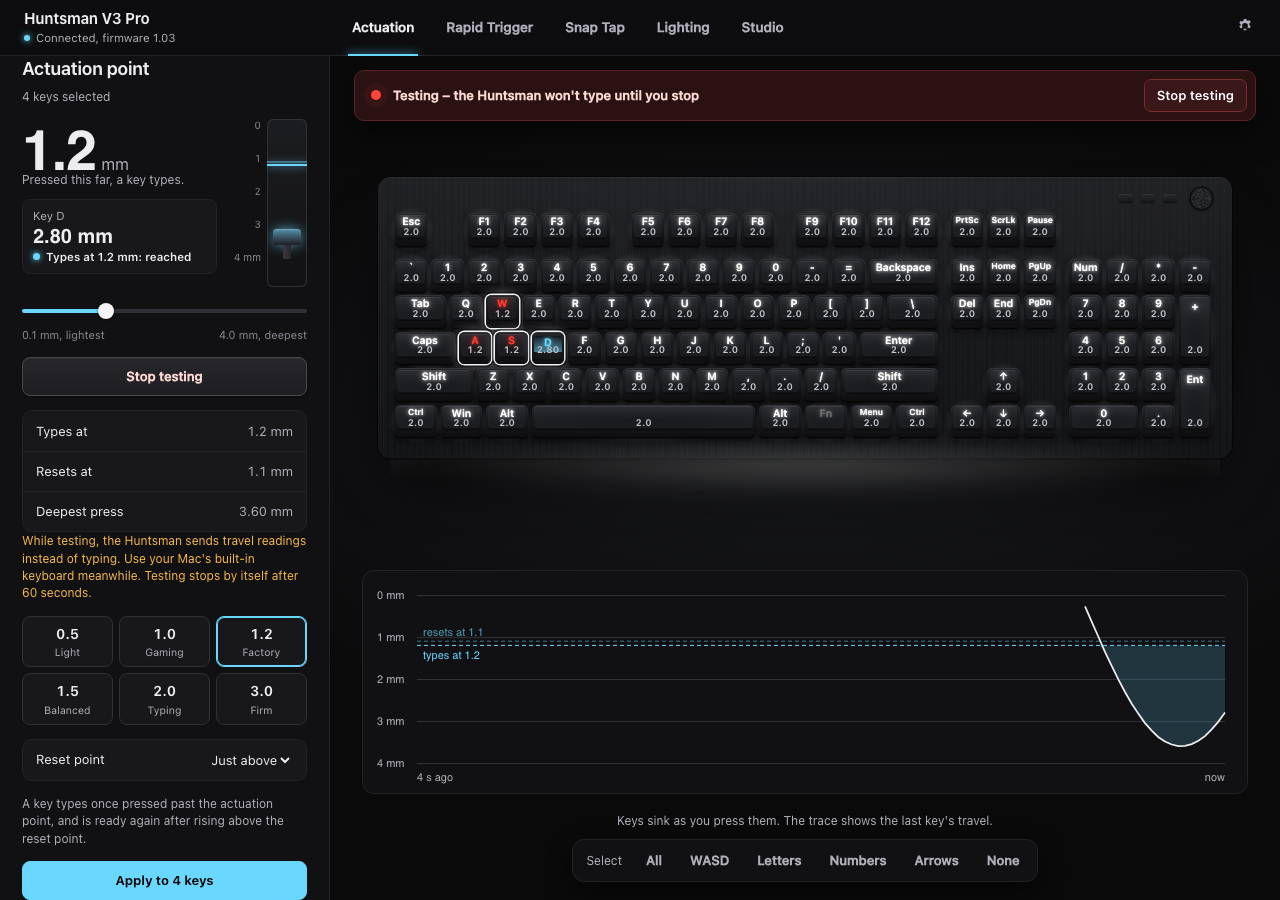
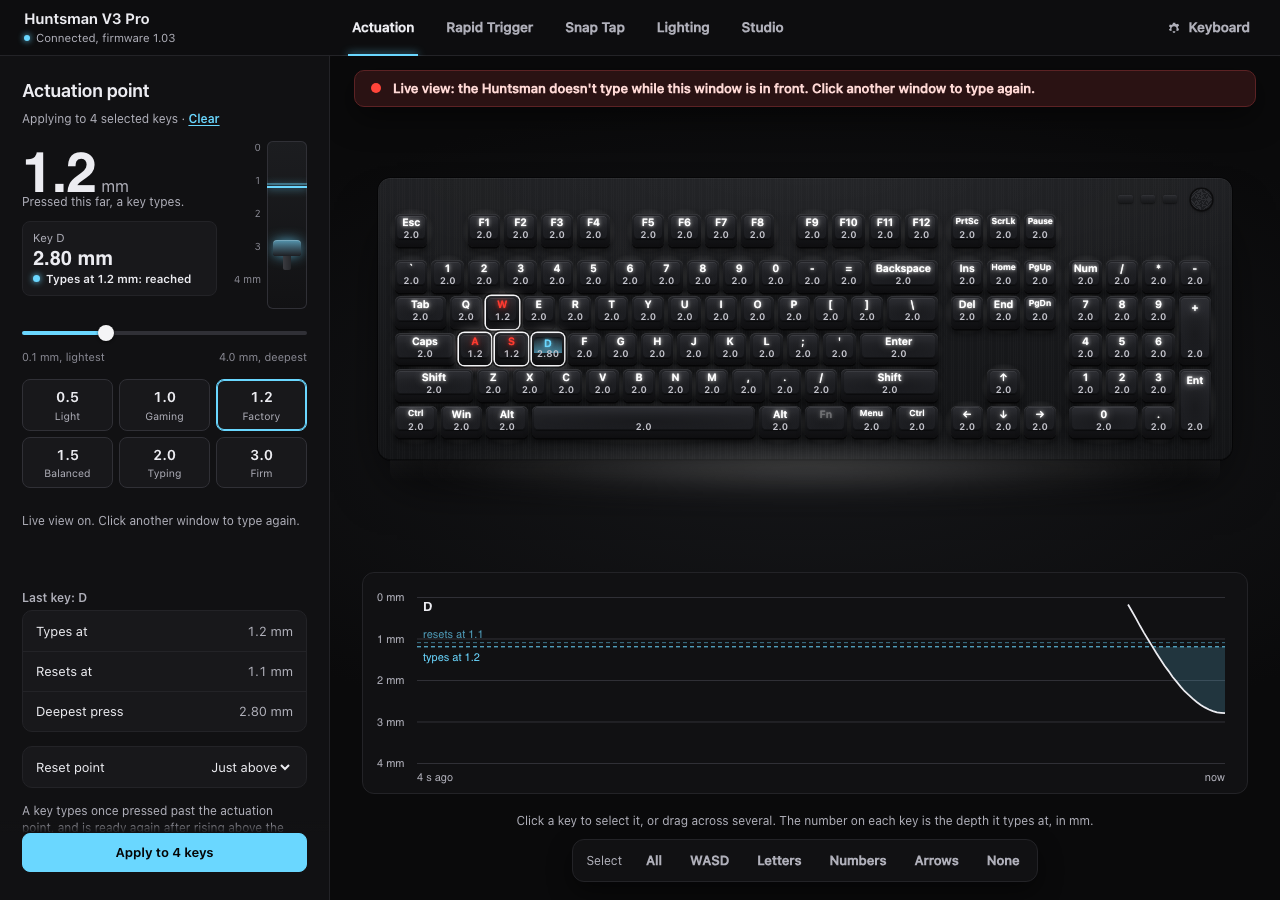
docs: 0.4.1 release notes, README and fresh key-tester media
The changelog, README, landing page and handoff describe the live view as shipped, and
the Actuation screenshot and key-tester gif showed the removed Test button and banner.
tools/make_media.py makes both from demo mode so they can be redone.

Claude-Session: https://claude.ai/code/session_01A4ixEHWyTsNqqdqhbaYNum

diff --git a/docs/index.html b/docs/index.html
@@ -67,7 +67,7 @@
     {"@type": "Question", "name": "I have one of the experimental models. How can I help?",
      "acceptedAnswer": {"@type": "Answer", "text": "Turn on Experimental support, run the LED check, and report what worked and what didn't. The steps are in CONTRIBUTING.md."}},
     {"@type": "Question", "name": "Why is there no key tester on my model?",
-     "acceptedAnswer": {"@type": "Answer", "text": "The key tester switches the keyboard into a mode where it stops typing. It's only offered on a model that has been tested, so an untested keyboard can't be left unable to type. The V2 and V2 TKL also have no analog keys to test."}}
+     "acceptedAnswer": {"@type": "Answer", "text": "While the key tester runs, the keyboard doesn't type. It's only offered on a model that has been tested, so an untested keyboard can't be left unable to type. The V2 and V2 TKL also have no analog keys to test."}}
   ]
 }
 </script>
@@ -351,7 +351,7 @@ footer p{margin:0 0 12px}
 
       <div class="bento">
         <article class="card span-3">
-          <div class="shot"><img src="screenshot-actuation.png" width="1280" height="900" loading="lazy" alt="Huntsman for Mac in demo mode, Actuation tab: four keys set to 1.2 mm while the key tester shows the D key pressed to 2.8 mm"></div>
+          <div class="shot"><img src="screenshot-actuation.png" width="1280" height="900" loading="lazy" alt="Huntsman for Mac in demo mode, Actuation tab in live view: W, A, S and D set to 1.2 mm while the D key is pressed to 2.80 mm and the trace draws its travel"></div>
           <h3>Actuation, to a tenth of a millimetre</h3>
           <p>Every key, anywhere from <strong>0.1 mm</strong> (a feather) to <strong>4.0 mm</strong> (the whole way down), with its reset point. It's stored on the keyboard, so it goes with the keyboard to other computers.</p>
           <span class="tag on">Saved on the keyboard</span>
@@ -361,11 +361,11 @@ footer p{margin:0 0 12px}
           <div class="shot">
             <picture>
               <source media="(prefers-reduced-motion: reduce)" srcset="screenshot-actuation.png">
-              <img src="demo-key-tester.gif" width="960" height="675" loading="lazy" alt="Demo mode, Actuation tab: the key tester showing key travel on the meter and in the readings">
+              <img src="demo-key-tester.gif" width="960" height="675" loading="lazy" alt="Demo mode, Actuation tab in live view: W, A, S and D sink in turn; the board, the meter and the readings follow each key, and the trace names it and draws its travel">
             </picture>
           </div>
           <h3>Key tester: watch each key's travel live</h3>
-          <p>Open Actuation and press a key on the Huntsman: it sinks on the board, a meter follows it, a trace draws its travel, and the panel shows where it typed, where it reset and how deep you pressed. Offered on the Huntsman V3 Pro (1532:02A6), the one model tested with this app.</p>
+          <p>Open Actuation and press a key on the Huntsman. No button to click: it sinks on the board, a meter follows it, a trace names it and draws its travel, and the panel shows where it typed, where it reset and how deep you pressed. While the window is in front on Actuation the Huntsman doesn't type; click another window and it types again. Offered on the Huntsman V3 Pro (1532:02A6), the one model tested with this app.</p>
           <p class="note">Recorded in demo mode (simulated key presses, not a hardware recording).</p>
         </article>
 
@@ -519,7 +519,7 @@ cd huntsman-for-mac</code></pre></div>
       </ol>
       <ul class="win-notes">
         <li>Every model is experimental on Windows, the V3 Pro too: nothing is changed until Experimental support is on.</li>
-        <li>No key tester on Windows.</li>
+        <li>No key tester on Windows: while it runs the keyboard doesn't type, so it stays off on an untested platform.</li>
         <li>Windows Dynamic Lighting can take over the lights; the window says how to turn it off for the keyboard.</li>
         <li>The window needs the Microsoft Edge WebView2 Runtime: built into Windows 11, may need installing on Windows 10.</li>
         <li>The lighting service lives in the tray and starts at sign-in (per-user, no admin rights).</li>
@@ -566,7 +566,7 @@ cd huntsman-for-mac</code></pre></div>
         <div class="card"><h3>Checked replies</h3><p>Every command checks that the keyboard's reply matches the request and passes its checksum. Actuation writes are also read back key by key.</p></div>
         <div class="card"><h3>Your settings saved</h3><p>On first launch the app copies every key's settings to a snapshot; <code>restore-snapshot</code> puts them back.</p></div>
         <div class="card"><h3>Factory reset</h3><p><em>Restore factory depth</em> puts every key back to 1.2 mm and turns off Rapid Trigger and Snap Tap.</p></div>
-        <div class="card"><h3>The tester lets go</h3><p>The tester only runs while Actuation is in front. The keyboard types again when you switch tab or app, after 5 minutes without a key press, when you close the window or when the app quits.</p></div>
+        <div class="card"><h3>The tester lets go</h3><p>The tester only runs while the window is in front on Actuation. The keyboard types again when you switch tab or app, minimise the window, after 5 minutes without a key press, when you close the window or when the app quits.</p></div>
       </div>
     </div>
   </section>
@@ -587,7 +587,7 @@ cd huntsman-for-mac</code></pre></div>
         <details><summary>Is it free?</summary><p>Yes. It's open source under GPL-3.0-or-later, with no account, no telemetry and no paid tier.</p></details>
         <details><summary>Which keyboards are supported?</summary><p>The Razer Huntsman V3 Pro (full size, USB ID 1532:02A6) is tested. The V3 Pro TKL, V3 Pro 8KHz, V3 Pro Mini, V2, V2 TKL and V2 Analog have experimental support: untested, and off until you turn on Experimental support. See <a href="#models">Supported hardware</a>.</p></details>
         <details><summary>I have one of the experimental models. How can I help?</summary><p>Turn on Experimental support, run the LED check, and report what worked and what didn't. The steps are in <a href="https://github.com/samir777-eng/huntsman-for-mac/blob/master/CONTRIBUTING.md#testing-an-experimental-model">CONTRIBUTING.md</a>.</p></details>
-        <details><summary>Why is there no key tester on my model?</summary><p>The key tester switches the keyboard into a mode where it stops typing. It's only offered on a model that has been tested, so an untested keyboard can't be left unable to type. The V2 and V2 TKL also have no analog keys to test.</p></details>
+        <details><summary>Why is there no key tester on my model?</summary><p>While the key tester runs, the keyboard doesn't type. It's only offered on a model that has been tested, so an untested keyboard can't be left unable to type. The V2 and V2 TKL also have no analog keys to test.</p></details>
       </div>
     </div>
   </section>

diff --git a/tools/make_media.py b/tools/make_media.py
@@ -1,0 +1,112 @@
+# SPDX-License-Identifier: GPL-3.0-or-later
+# Copyright (C) 2026 Huntsman for Mac contributors
+"""Regenerate docs/screenshot-actuation.png and docs/demo-key-tester.gif from demo mode (no keyboard needed).
+
+    .venv/bin/python tools/make_media.py
+
+Needs the dev requirements (Playwright + Chromium) and ffmpeg (on PATH, /opt/homebrew/bin, or $FFMPEG). The page is
+the demo (ui/index.html?demo) at 1280×900, opened on Actuation with the window "in front", so the live view runs.
+W, A, S and D are selected and set to 1.2 mm, then key travel is fed to the page frame by frame on a fake clock, so
+the trace's time axis matches the gif's (12.5 fps) however long each screenshot takes. The gif is scaled to 960×675
+and made with palettegen/paletteuse.
+"""
+import math
+import os
+import shutil
+import subprocess
+import sys
+import tempfile
+
+ROOT = os.path.dirname(os.path.dirname(os.path.abspath(__file__)))
+sys.path.insert(0, os.path.join(ROOT, "tests"))
+from playwright.sync_api import sync_playwright, expect  # noqa: E402
+from test_ui import RECORDER, URL, IDS  # noqa: E402  (demo hooks: window in front, Actuation, intro seen)
+
+PNG = os.path.join(ROOT, "docs", "screenshot-actuation.png")
+GIF = os.path.join(ROOT, "docs", "demo-key-tester.gif")
+SIZE = {"width": 1280, "height": 900}
+FRAME_MS = 80                       # 12.5 fps, like the earlier gif
+KEY_MS = 1400                       # each key: pressed and released, then a short rest
+PRESS = [("W", 2.0), ("A", 3.6), ("S", 1.6), ("D", 2.8)]   # deepest point per key, in mm
+
+# A fake clock for the trace (it draws the last 4 s against performance.now()).
+CLOCK = """
+const __realNow = performance.now.bind(performance);
+window.__clock = null;
+performance.now = () => window.__clock ?? __realNow();
+"""
+
+
+def ffmpeg():
+    for p in (os.environ.get("FFMPEG"), shutil.which("ffmpeg"), "/opt/homebrew/bin/ffmpeg", "/usr/local/bin/ffmpeg"):
+        if p and os.path.exists(p):
+            return p
+    sys.exit("ffmpeg not found: install it (brew install ffmpeg) or set FFMPEG")
+
+
+def travel(t_ms):
+    """(key, mm) at time t: each key goes down and back up in 1 s, then rests 0.4 s."""
+    i = int(t_ms // KEY_MS) % len(PRESS)
+    ph = (t_ms % KEY_MS) / 1000
+    key, deep = PRESS[i]
+    d = deep * math.sin(math.pi * ph) if ph < 1 else 0.0
+    return IDS[key], round(max(0.0, d), 2)
+
+
+def feed(page, t_ms):
+    page.evaluate("t => { window.__clock = t; }", 100000 + t_ms)
+    kid, d = travel(t_ms)
+    page.evaluate("b => window.onDepth(b)", [[kid, d]] if d > 0.01 else [])
+
+
+def setup(page):
+    page.add_init_script(CLOCK)
+    page.add_init_script(RECORDER)
+    page.goto(URL)
+    expect(page.locator("#conn")).to_have_text("Connected, firmware 1.03")
+    page.wait_for_function("window.__calls.some(c => c[0] === 'start_test')")
+    for k in ("W", "A", "S", "D"):
+        page.locator(f'.cap[data-id="{IDS[k]}"]').click()
+    page.fill("#depth", "1.2")
+    page.dispatch_event("#depth", "input")
+    page.click("#applyDepth")
+    page.wait_for_function("window.__calls.some(c => c[0] === 'set_depth')", timeout=3000)
+    page.wait_for_timeout(300)
+    # no Apply toast, no demo-only model list in the header, and the meter's key jumps straight to each reading
+    # (its 30 ms transition only runs on the real clock)
+    page.add_style_tag(content="#toast, #demoModel { display: none !important; } .meter-key { transition: none !important; }")
+    page.mouse.move(0, 0)
+
+
+def main():
+    with sync_playwright() as p, tempfile.TemporaryDirectory() as tmp:
+        b = p.chromium.launch()
+        page = b.new_page(viewport=SIZE)
+        setup(page)
+        # warm the trace up so the first frame already has 4 s of history
+        for t in range(-4000, 0, FRAME_MS):
+            feed(page, t % (KEY_MS * len(PRESS)))
+        n = KEY_MS * len(PRESS) // FRAME_MS
+        for f in range(n):
+            feed(page, f * FRAME_MS)
+            page.screenshot(path=os.path.join(tmp, f"f{f:03d}.png"))
+        # the still: D near its deepest press (2.8 mm), as on the README
+        page2 = b.new_page(viewport=SIZE)
+        setup(page2)
+        d_start = 3 * KEY_MS
+        for t in range(d_start - 4000, d_start + 501, FRAME_MS // 4):
+            feed(page2, t)
+        page2.screenshot(path=PNG)
+        b.close()
+        palette = os.path.join(tmp, "palette.png")
+        scale = "fps=12.5,scale=960:-1:flags=lanczos"
+        subprocess.run([ffmpeg(), "-v", "error", "-y", "-framerate", "12.5", "-i", os.path.join(tmp, "f%03d.png"),
+                        "-vf", f"{scale},palettegen=max_colors=128:stats_mode=diff", palette], check=True)
+        subprocess.run([ffmpeg(), "-v", "error", "-y", "-framerate", "12.5", "-i", os.path.join(tmp, "f%03d.png"),
+                        "-i", palette, "-lavfi", f"{scale}[x];[x][1:v]paletteuse=dither=bayer:bayer_scale=5:diff_mode=rectangle",
+                        "-loop", "0", GIF], check=True)
+    print(f"wrote {os.path.relpath(PNG, ROOT)} and {os.path.relpath(GIF, ROOT)} ({os.path.getsize(GIF):,} bytes)")
+
+
+if __name__ == "__main__":
+    main()

diff --git a/README.md b/README.md
@@ -90,7 +90,7 @@ What's different on Windows:
 - **Every model is experimental**, the Huntsman V3 Pro too: nothing that changes the keyboard is sent until you turn
   on **Keyboard → Experimental support** (see [Experimental support](#experimental-support)). Reads always work,
   except while Razer Synapse runs (below).
-- **No key tester.** It puts the keyboard into a mode where it stops typing, so it stays off on an untested platform.
+- **No key tester.** While it runs, the keyboard doesn't type, so it stays off on an untested platform.
 - **Hands off while Razer Synapse runs.** Synapse overwrites the keyboard's live settings, and two programs talking
   to it at once mix up the replies. While Synapse (`RazerAppEngine.exe`, or Synapse 3 or 2) is running, the app and the
   lighting service don't open the keyboard at all, not even to read it: the window shows the last model it saw and
@@ -164,7 +164,7 @@ Settings stored on the keyboard (actuation, keyboard effects) stay on it.
 | | Feature | Saved on the keyboard? |
 |---|---|---|
 | 🎯 | [Actuation point](#actuation-and-the-key-tester), per key, 0.1 to 4.0 mm, with its reset point | Yes |
-| 🔬 | [Key tester](#actuation-and-the-key-tester): watch each key's travel live, inside Actuation | – |
+| 🔬 | [Key tester](#actuation-and-the-key-tester): each key's travel, live, while Actuation is in front | – |
 | ⚡ | [Rapid Trigger](#rapid-trigger-and-snap-tap), with press and release distances | No, kept until unplugged and sent again |
 | 🥊 | [Snap Tap](#rapid-trigger-and-snap-tap) for one pair of keys | No, kept until unplugged and sent again |
 | 💡 | [Keyboard lighting](#keyboard-lighting): static, breathing, spectrum, wave, reactive, starlight, brightness | Yes |
@@ -179,7 +179,7 @@ Settings stored on the keyboard (actuation, keyboard effects) stay on it.
 
 <table>
   <tr>
-    <td width="50%"><a href="#actuation-and-the-key-tester"><img src="docs/screenshot-actuation.png" alt="Huntsman for Mac in demo mode, Actuation tab: four keys set to 1.2 mm while the key tester shows the D key pressed to 2.8 mm"></a></td>
+    <td width="50%"><a href="#actuation-and-the-key-tester"><img src="docs/screenshot-actuation.png" alt="Huntsman for Mac in demo mode, Actuation tab in live view: W, A, S and D set to 1.2 mm while the D key is pressed to 2.80 mm and the trace draws its travel"></a></td>
     <td width="50%">
       <p><b>🎯 Actuation, to a tenth of a millimetre</b></p>
       Every key, anywhere from <b>0.1 mm</b> (a feather) to <b>4.0 mm</b> (the whole way down). It's stored on the
@@ -224,9 +224,9 @@ Settings stored on the keyboard (actuation, keyboard effects) stay on it.
 ### Actuation and the key tester
 
 <p align="center">
-  <img src="docs/demo-key-tester.gif" width="900" alt="Demo mode, Actuation tab: the key tester running while W, A, S and D sink in turn, the travel meter follows each key and the trace draws its travel">
+  <img src="docs/demo-key-tester.gif" width="900" alt="Demo mode, Actuation tab in live view: W, A, S and D sink in turn; the board, the meter and the readings follow each key, and the trace names it and draws its travel">
   <br>
-  <sub>🔬 The key tester in Actuation, recorded in demo mode (simulated key presses, not a hardware recording).</sub>
+  <sub>🔬 Live view in Actuation, recorded in demo mode (simulated key presses, not a hardware recording).</sub>
 </p>
 
 Pick keys on the board (or none, for all of them), drag the slider anywhere from **0.1 mm** (a feather) to **4.0 mm**
@@ -420,6 +420,10 @@ Reconnect on 2026-11-20. Not checked on the keyboard yet: the Mixed readout and 
 and picking keys on the board, Studio's preview while off, the six new presets, and the key tester since the UX
 changes. The golden tests show every byte sent to the V3 Pro is unchanged. The Windows build and the V2 Analog's
 actuation are untested.
+
+**Version 0.4.1** (the live view) hasn't been checked on the keyboard yet: starting and stopping as the window comes
+to the front or goes behind, the Input Monitoring prompt, and the pause after 5 minutes. The test suite covers them
+with a simulated keyboard.
 
 ## Install
 
@@ -645,8 +649,9 @@ stops and restarts it.
 <details>
 <summary><b>The keyboard stopped typing</b></summary>
 
-It was left in test mode. Unplug it and plug it back in; opening the app, or running any `huntsman.py` command, also
-puts it back to typing.
+If the app is in front on the Actuation tab, that's the live view: click another window and the keyboard types again.
+Otherwise it was left in live view (for example, the app was killed). Unplug it and plug it back in; opening the app,
+or running any `huntsman.py` command, also puts it back to typing.
 
 </details>
 
@@ -749,7 +754,7 @@ Turn on Experimental support, run the LED check, and report what worked and what
 <details>
 <summary><b>Why is there no key tester on my model?</b></summary>
 
-The key tester switches the keyboard into a mode where it stops typing. It's only offered on a model that has been
+While the key tester runs, the keyboard doesn't type. It's only offered on a model that has been
 tested, so an untested keyboard can't be left unable to type. The V2 and V2 TKL also have no analog keys to test.
 
 </details>

diff --git a/CHANGELOG.md b/CHANGELOG.md
@@ -2,27 +2,34 @@
 
 All notable changes to this project are listed here. Versions follow [Semantic Versioning](https://semver.org/).
 
-## Unreleased
+## 0.4.1 – 2026-11-22
 
 ### Changed
-- The key tester runs live: no more *Test with a key press* button. It starts by itself while the Actuation tab is open
-  and the window is in front (focused and visible) on a model with the key tester, and stops, with the keyboard typing
-  again, on another tab, another app, a minimised or hidden window, close, quit, disconnect or Reconnect. Focus changes
-  are debounced (300 ms). A status line in Actuation says when it's live or paused; the banner's Stop button is gone.
-- The tester pauses after 5 minutes without key travel (was: 60 seconds after starting) and stays paused until the
-  window is focused again, the tab is opened again, or *Resume* / the board is clicked. A failed start shows its reason
-  once with *Try again* and isn't retried by itself.
-- Keys can be selected and Apply used while the tester runs; Apply writes as before and the tester keeps running.
-- UX audit of the live view: the app opens on the last tab used (first launch: Lighting), so it doesn't stop the
-  Huntsman typing at launch unless it was left on Actuation; a one-time explanation the first time it goes live. The
-  trace and readings keep their place while paused (dimmed, with a *Paused · Resume* chip on the trace), so nothing
-  jumps; the trace's height follows the window (110–200 px) and the presets sit above the readings. One message per
-  place: the banner says what's happening ("Click another window to type again"), the status line the state (live, it also says
-  once how to type again), and it's the only live region (the meter's line no longer speaks; its buttons sit outside
-  it, and a button that hides itself hands focus to the depth slider). Input Monitoring refused shows *Open Privacy
-  settings*. "Live view" wording throughout. Resuming is from the chip, focus or the tab only; clicking the board
-  selects keys. The readings say "Last key: W"; the trace names the key and asks for one while empty. Toasts sit
-  below the board while the trace shows. "Starting live view…" appears only if a start takes over 400 ms.
+- The key tester runs live ("live view"): the *Test with a key press* and *Stop testing* buttons are gone. On the
+  Huntsman V3 Pro it starts by itself while the Actuation tab is open and the window is in front, and the pressed key
+  sinks on the board, the meter follows it, and the trace names the key and draws its travel. A banner over the board
+  says the Huntsman doesn't type meanwhile ("Click another window to type again"); the first time, the panel explains
+  why once.
+- It stops, and the keyboard types again, when you open another tab, click another window or Cmd-Tab, minimise the
+  window or lock the screen, close the window or quit, and when the keyboard is disconnected or you click Reconnect.
+  Coming back to the window or the tab starts it again.
+- After 5 minutes without a key press it pauses (was: testing stopped 60 seconds after it started). The trace and
+  readings stay where they are, dimmed, with a *Paused · Resume* chip on the trace; *Resume*, or coming back to the
+  window or the tab, starts it again.
+- If it can't start, the panel says why once, with *Try again*, and *Open Privacy settings* when Input Monitoring
+  isn't allowed. It doesn't keep retrying.
+- You can pick keys and Apply while the live view runs; it keeps running.
+- The app opens on the tab you used last (the very first launch opens Lighting), so it only stops the Huntsman typing
+  at launch if you left it on Actuation.
+- Actuation panel: the presets sit above the readings, the readings say "Last key: W", the trace's height follows the
+  window, and messages appear below the board while the trace shows.
+- VoiceOver: one status line announces the live view's state (and once how to type again); the meter no longer speaks
+  every reading.
+
+### Not checked on hardware
+- The live view on the Huntsman V3 Pro: starting and stopping as the real app's window comes to the front or goes
+  behind, the Input Monitoring prompt, and the pause after 5 minutes. The owner is checking these now; until then only
+  the test suite (simulated keyboard, headless browser) has run them.
 
 ## 0.4.0 – 2026-11-22
 

diff --git a/HANDOFF.md b/HANDOFF.md
@@ -3,16 +3,22 @@
 Current state of Huntsman for Mac, updated 2026-11-22.
 
 ## Status
+- **0.4.1 ready on branch `auto-key-tester`** (not pushed): the live key tester ("live view", no Test button) plus its
+  UX-audit and review fixes, version bumped (`__version__`, both Info.plists 0.4.1 build 5), CHANGELOG "0.4.1 –
+  2026-11-22", README/landing page/CONTRIBUTING updated, fresh `docs/screenshot-actuation.png` and
+  `docs/demo-key-tester.gif` (made by `tools/make_media.py` from demo mode). **Waiting on the owner's hardware check
+  of the live view on the V3 Pro** (start/stop as the real window comes to the front or goes behind, the Input
+  Monitoring prompt, the 5-minute pause). Then: PR `auto-key-tester` → `master`, tag `v0.4.1`, publish the release
+  (the Windows workflow attaches `Huntsman-for-Windows-0.4.1.zip` itself). Record only verified results.
 - **Released:** v0.4.0 (2026-11-22, https://github.com/samir777-eng/huntsman-for-mac/releases/tag/v0.4.0), with
   `Huntsman-for-Windows-0.4.0.zip` attached by `.github/workflows/windows-build.yml`. `master` = v0.4.0 (merge of
   branch `windows`, kept for history). v0.1.0–v0.3.0 are also tagged.
-- **Released at the owner's request before the planned hardware check** (keyboard unavailable after the move). Still
-  to check on the V3 Pro, one at a time: actuation with the Mixed readout + Apply confirmation, Snap Tap switch/board
-  picking, Studio preview while off, the 6 new presets, key tester (ask first: it stops typing). Record results
-  (verified only) in README/CHANGELOG/HANDOFF; fix anything found in a 0.4.1. The Windows build has still never run on
-  a Windows PC with a keyboard.
+- **v0.4.0 was released at the owner's request before the planned hardware check.** Still to check on the V3 Pro, one
+  at a time: actuation with the Mixed readout + Apply confirmation, Snap Tap switch/board picking, Studio preview
+  while off, the 6 new presets, the live view (ask first: it stops typing). Record results (verified only) in
+  README/CHANGELOG/HANDOFF. The Windows build has still never run on a Windows PC with a keyboard.
 - **Repo:** public, GitHub `samir777-eng/huntsman-for-mac`, default branch `master`, SEO description + 18 topics.
-- **Tests:** 1322 passing (7 skipped) on the Mac: `python -m pytest -q tests` (simulated keyboard, fake transports,
+- **Tests:** 1372 passing (2 skipped) on the Mac: `python -m pytest -q tests` (simulated keyboard, fake transports,
   headless Chromium UI tests in demo mode). Dev env: `requirements.txt` + `requirements-dev.txt`, then
   `playwright install chromium`. GitHub Actions `CI` (.github/workflows/ci.yml) runs it on macos-latest and
   windows-latest (Windows: `requirements-win.txt`; 37 `mac_only` tests skipped, see tests/conftest.py).
@@ -81,12 +87,12 @@ venv into the bundle and signs it ad hoc; unsigned apps can't read ~/Downloads):
   `state.json["experimental"]` is on (Keyboard tab switch or `huntsman.py experimental on`); never driver mode;
   unknown commands refused. Golden-byte tests (`tests/golden_02a6.json`) pin every 02A6 packet.
 - First-launch snapshot records its PID; restore refuses another model's snapshot. One snapshot per Mac user.
-- Key tester lives in Actuation and runs live (Unreleased, branch `auto-key-tester`, plan
+- Key tester lives in Actuation and runs live (0.4.1, branch `auto-key-tester`, plan
   docs/plans/2026-11-22-live-key-tester.md): no button; starts while Actuation is in front, stops on tab/app change,
   hidden, close, disconnect, 5 min idle. UX-audit fixes: opens on the last tab (state.ui.tab; first launch Lighting),
-  one-time intro (state.ui.liveSeen), stable layout with a Resume chip, `Api.open_privacy`. docs/screenshot-actuation.png and docs/demo-key-tester.gif still show the old
-  banner/warning (no script makes them; redo by hand). Not yet checked on the
-  keyboard (pywebview focus/blur untested).
+  one-time intro (state.ui.liveSeen), stable layout with a Resume chip, `Api.open_privacy`. Media:
+  `tools/make_media.py` regenerates the Actuation screenshot and key-tester gif (fake clock, WASD at 1.2 mm). Not yet
+  checked on the keyboard (pywebview focus/blur untested).
 
 ## Code map
 - `huntsman_core.py`: protocol + USB transport (pyusb/libusb control transfers to interface 3, 90-byte reports, CRC,

diff --git a/CONTRIBUTING.md b/CONTRIBUTING.md
@@ -38,7 +38,11 @@ If you add a module the app imports lazily, or a data file, list it in `platform
 
 ## Previewing the interface
 
-Open `ui/index.html?demo` in a browser. A simulated keyboard answers every call, including the key tester. Add `&model=02B0` (or another product ID) to preview another model; a list in the header switches between them.
+Open `ui/index.html?demo` in a browser. A simulated keyboard answers every call, including the key tester (its live view starts on Actuation and presses W, A, S and D in turn). Add `&model=02B0` (or another product ID) to preview another model; a list in the header switches between them.
+
+`docs/screenshot-actuation.png` and `docs/demo-key-tester.gif` are made from demo mode by
+`.venv/bin/python tools/make_media.py` (needs the dev requirements, Playwright's Chromium and ffmpeg). Run it again
+when the Actuation tab or the live view changes, and look at both files before committing them.
 
 ## Testing an experimental model
 
